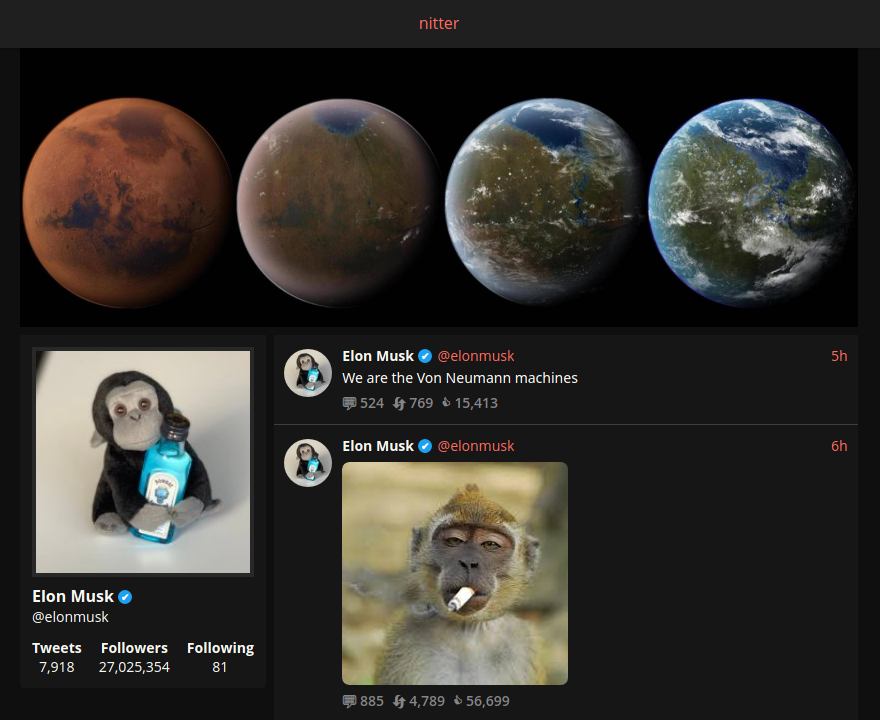
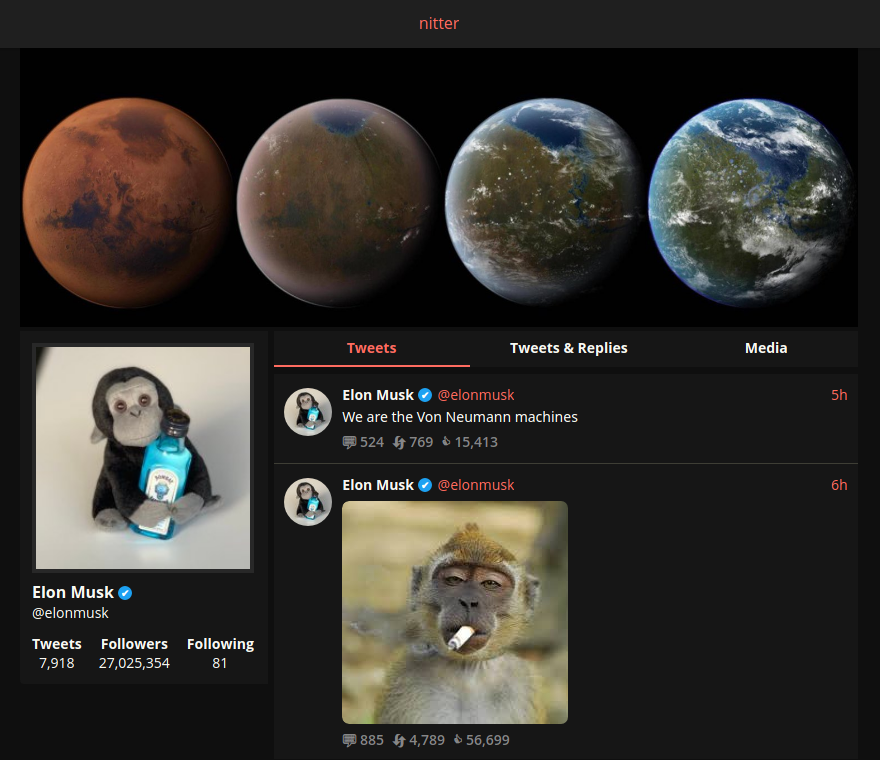
Add timeline filters
Custom filter menu is still WIP

diff --git a/public/style.css b/public/style.css
@@ -497,6 +497,39 @@ video {
     word-wrap: break-word;
 }
 
+.tab {
+    align-items: center;
+    display: flex;
+    flex-wrap: wrap;
+    list-style: none;
+    margin: 0 0 5px 0;
+    background-color: #161616;
+    padding: 0;
+}
+
+.tab .tab-item {
+    margin-top: 0;
+}
+
+.tab-item {
+    flex: 1 1 0;
+    text-align: center;
+}
+
+.tab .tab-item a.active, .tab .tab-item.active a {
+    border-bottom-color: #ff6c60;
+    color: #ff6c60;
+}
+
+.tab .tab-item a {
+    border-bottom: .1rem solid transparent;
+    color: inherit;
+    display: block;
+    padding: 8px 0;
+    text-decoration: none;
+    font-weight: bold;
+}
+
 .conversation {
     max-width: 580px;
     margin: 0 auto;

diff --git a/README.md b/README.md
@@ -26,7 +26,7 @@ is on implementing missing features.
 ## Todo (roughly in this order)
 
 - Search (images/videos, hashtags, etc.)
-- Hiding retweets, showing replies, etc.
+- Custom timeline filter
 - Media carousel below profile
 - Media-only/gallery view
 - Nitter link previews
